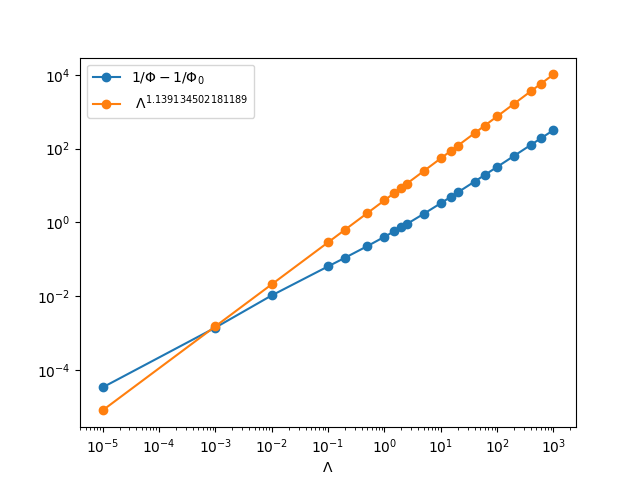
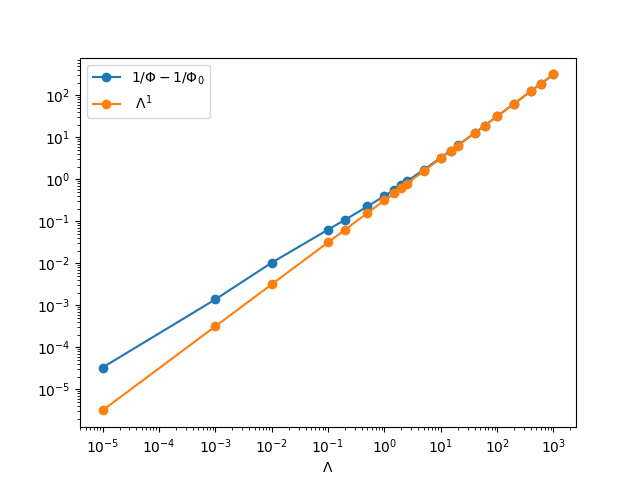
update

diff --git a/Ex1_square_top_snowflake/main_flux.py b/Ex1_square_top_snowflake/main_flux.py
@@ -67,13 +67,12 @@ phi_2=[]
 for i in range(len(Phi)):
    phi_2.append(1/Phi[i]-1/Phi0)
 phi_2_log=np.log(phi_2)
-LL_log=np.log(LL)
-res = stats.linregress(phi_2_log, LL_log)
-c=exp(res.intercept)
-alpha=res.slope
-print("slope ", alpha, "coefficients ",c)
+#LL_log=np.log(LL)
+#res = stats.linregress(phi_2_log, LL_log)
+#c=exp(res.intercept)
+alpha=1
 plt.loglog(LL, phi_2,marker='o')
-plt.loglog(LL,(LL)**alpha/(LL[0]**alpha)*(phi_2[0]**alpha),marker='o')
+plt.loglog(LL,(LL)**alpha/(LL[-1]**alpha)*(phi_2[-1]**alpha),marker='o')
 plt.legend(['$1/\Phi-1/\Phi_0$', '$~\Lambda^{{%s}}$' % (alpha)])
 plt.xlabel('$\Lambda$')
 plt.savefig(f"figures/Phi_Lam_{nn}.png")
@@ -113,12 +112,11 @@ fig, axes = plt.subplots()
 phi_2=[]
 for i in range(len(Phi)):
    phi_2.append(1/Phi[i]-1/Phi0)
-phi_2_log=np.log(phi_2)
-LL_log=np.log(LL)
-res = stats.linregress(phi_2_log, LL_log)
-c=exp(res.intercept)
-alpha=res.slope
-print("slope ", alpha, "coefficients ",c)
+#phi_2_log=np.log(phi_2)
+#LL_log=np.log(LL)
+#res = stats.linregress(phi_2_log, LL_log)
+#c=exp(res.intercept)
+alpha=1
 plt.loglog(LL, phi_2,marker='o')
 plt.loglog(LL,(LL)**alpha/(LL[0]**alpha)*(phi_2[0]**alpha),marker='o')
 plt.legend(['$1/\Phi-1/\Phi_0$', '$~\Lambda^{{%s}}$' % (alpha)])
@@ -159,12 +157,11 @@ fig, axes = plt.subplots()
 phi_2=[]
 for i in range(len(Phi)):
    phi_2.append(1/Phi[i]-1/Phi0)
-phi_2_log=np.log(phi_2)
-LL_log=np.log(LL)
-res = stats.linregress(phi_2_log, LL_log)
-c=exp(res.intercept)
-alpha=res.slope
-print("slope ", alpha, "coefficients ",c)
+#phi_2_log=np.log(phi_2)
+#LL_log=np.log(LL)
+#res = stats.linregress(phi_2_log, LL_log)
+#c=exp(res.intercept)
+alpha=0.8
 plt.loglog(LL, phi_2,marker='o')
 plt.loglog(LL,(LL)**alpha/(LL[0]**alpha)*(phi_2[0]**alpha),marker='o')
 plt.legend(['$1/\Phi-1/\Phi_0$', '$~\Lambda^{{%s}}$' % (alpha)])
